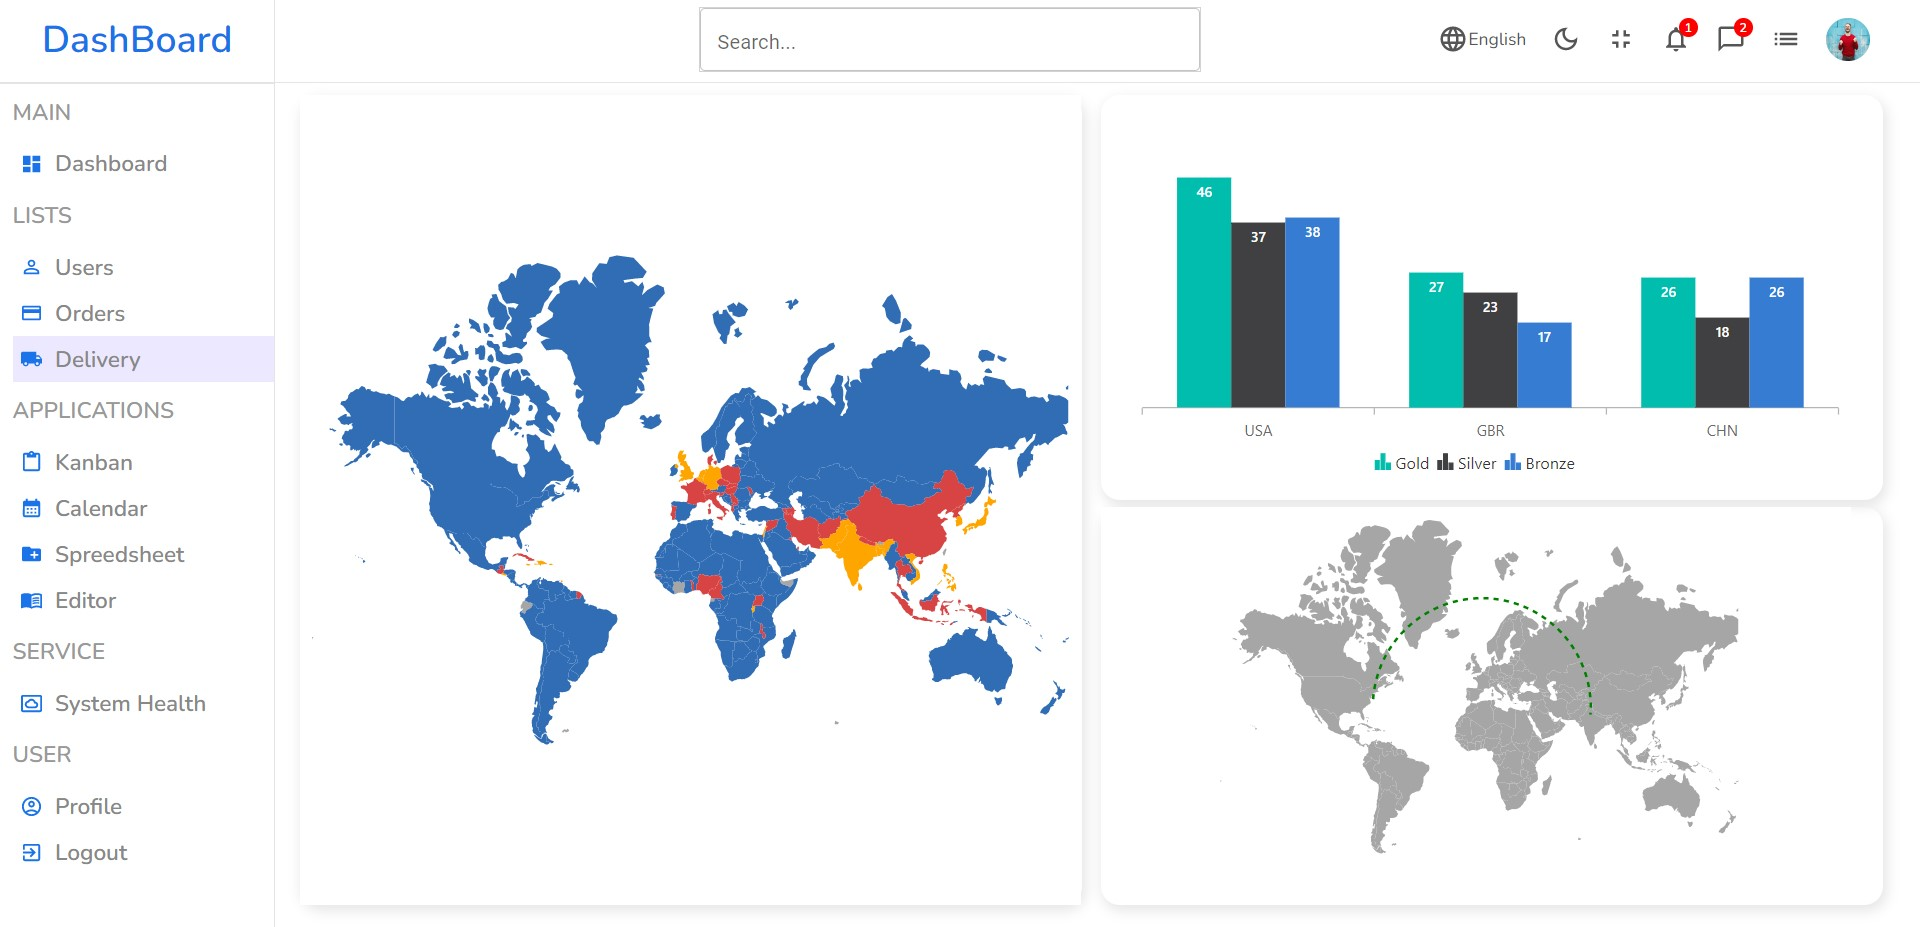
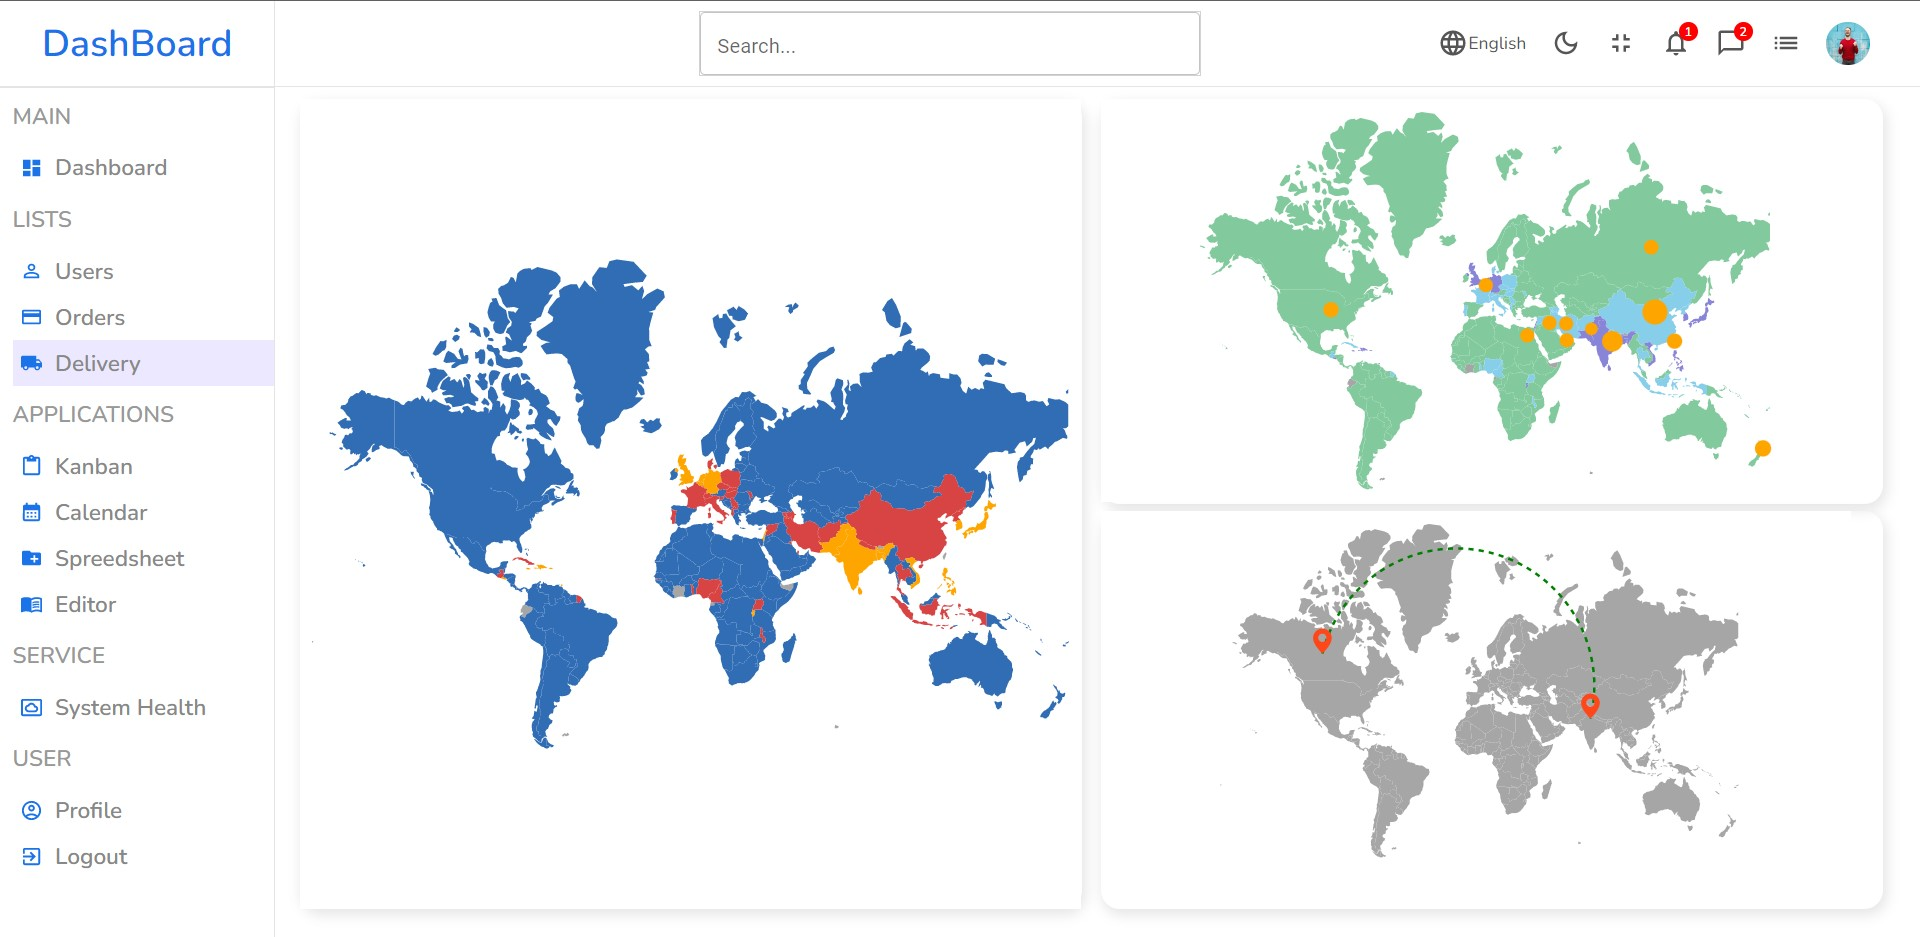
fixed multi maps rendering and changed delivery section

diff --git a/src/components/map/Country.jsx b/src/components/map/Country.jsx
@@ -1,0 +1,58 @@
+import { MapsComponent, LayersDirective, LayerDirective, Inject } from '@syncfusion/ej2-react-maps';
+import { BubblesDirective, BubbleDirective, Bubble } from '@syncfusion/ej2-react-maps';
+import { world_map } from './world_map.js';
+import { population_density } from './data.js';
+import './map.css'
+
+function Country() {
+    return (
+        <div className="country">
+            <MapsComponent id="maps">
+                <Inject services={[Bubble]} />
+                <LayersDirective>
+                    <LayerDirective shapeData={world_map} shapeDataPath="name" shapePropertyPath="name"
+                        dataSource={population_density} shapeSettings={{
+                            colorValuePath: 'density',
+                            colorMapping: [
+                                {
+                                    from: 0, to: 100, color: 'rgb(130, 202, 157)',
+                                },
+                                {
+                                    from: 101, to: 200, color: 'skyblue',
+                                },
+                                {
+                                    color: 'rgb(136, 132, 216)'
+                                }
+                            ]
+                        }}>
+                        <BubblesDirective>
+                            <BubbleDirective visible={true} valuePath="population" dataSource={[
+                                { name: 'India', population: '38332521' },
+                                { name: 'Pakistan', population: '3090416' },
+                                { name: 'New Zealand', population: '19651127' },
+                                { name: 'United States', population: '15151127' },
+                                { name: 'Taiwan', population: '15151127' },
+                                { name: 'China', population: '58332521' },
+                                { name: 'Russia', population: '12151127' },
+                                { name: 'Belgium', population: '10151127' },
+                                { name: 'United Arab Emirates', population: '10151127' },
+                                { name: 'Egypt', population: '10151127' },
+                                { name: 'Iran', population: '10151127' },
+                                { name: 'Iraq', population: '10151127' },
+                            ]}
+                                minRadius={5}
+                                maxRadius={10}
+                                fill="orange"
+                                animationDelay={100}
+                                animationDuration={1000}
+                                opacity={1}
+                            />
+                        </BubblesDirective>
+                    </LayerDirective>
+                </LayersDirective>
+            </MapsComponent>
+        </div>
+    )
+}
+
+export default Country

diff --git a/src/components/map/Network.jsx b/src/components/map/Network.jsx
@@ -1,4 +1,7 @@
-import { MapsComponent, LayersDirective, LayerDirective, Inject, NavigationLine, NavigationLinesDirective, NavigationLineDirective } from '@syncfusion/ej2-react-maps';
+import {
+    MapsComponent, LayersDirective, LayerDirective, Inject, NavigationLine, NavigationLinesDirective,
+    NavigationLineDirective, MarkersDirective, MarkerDirective, Marker
+} from '@syncfusion/ej2-react-maps';
 import { world_map } from './world_map.js';
 import './map.css'
 
@@ -6,19 +9,26 @@ function Network() {
     return (
         <div className="network">
             <MapsComponent id="element" height='95%'>
-                <Inject services={[NavigationLine]} />
+                <Inject services={[NavigationLine, Marker]} />
                 <LayersDirective>
                     <LayerDirective shapeData={world_map}>
                         <NavigationLinesDirective>
                             <NavigationLineDirective
                                 visible={true}
-                                latitude={[37.6276571, 28.644800]}
-                                longitude={[-74.0060, 77.216721]}
+                                latitude={[59.88893689676585, 28.644800]}
+                                longitude={[-109.3359375, 77.216721]}
                                 color="green"
                                 angle={-90}
                                 width={2}
                                 dashArray="4" />
                         </NavigationLinesDirective>
+                        <MarkersDirective>
+                            <MarkerDirective visible={true} height={20} width={20} animationDuration={0} dataSource={[
+                                { latitude: 28.644800, longitude: 77.216721 },
+                                { latitude: 59.88893689676585, longitude: -109.3359375 }
+                            ]}>
+                            </MarkerDirective>
+                        </MarkersDirective>
                     </LayerDirective>
                 </LayersDirective>
             </MapsComponent>

diff --git a/src/pages/delivery/Delivery.jsx b/src/pages/delivery/Delivery.jsx
@@ -2,7 +2,7 @@ import Navbar from '../../components/navbar/Navbar'
 import Sidebar from '../../components/sidebar/Sidebar'
 
 import WorldMap from '../../components/map/Worldmap'
-import SparkLine from '../../components/chart/SparkLine'
+import Country from '../../components/map/Country'
 import Network from '../../components/map/Network'
 
 import './delivery.css'
@@ -16,7 +16,7 @@ function Delivery(props) {
                 <div className="delivery-map">
                     <WorldMap />
                     <div className="country-component">
-                        <SparkLine />
+                        <Country />
                         <Network />
                     </div>
                 </div>

diff --git a/src/components/map/Worldmap.jsx b/src/components/map/Worldmap.jsx
@@ -6,7 +6,7 @@ import './map.css'
 function Worldmap() {
   return (
     <div className="worldmap">
-      <MapsComponent id="maps" height='100%'>
+      <MapsComponent height='100%'>
         <LayersDirective>
           <LayerDirective shapeData={world_map} shapeDataPath='name' shapePropertyPath='name' dataSource={population_density} shapeSettings={{
             colorValuePath: 'density',

diff --git a/src/components/map/map.css b/src/components/map/map.css
@@ -9,6 +9,17 @@
     height: 86vh;
 }
 
+.country {
+    display: flex;
+    justify-content: space-between;
+    flex: 1;
+    flex-direction: row;
+    -webkit-box-shadow: 2px 4px 10px 1px rgba(0, 0, 0, 0.47);
+    box-shadow: 2px 4px 10px 1px rgba(201, 201, 201, 0.47);
+    border-radius: 15px;
+    height: 43vh;
+}
+
 .network {
     display: flex;
     justify-content: space-between;
